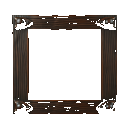
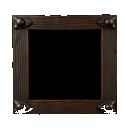
fix: replace stretched image panels with CSS wood-frame + parchment system
FantasyPanel now uses styled Views (dark wood frame border, parchment
background, metal corner studs, drop shadow) instead of ImageBackground
with resizeMode="stretch" which distorted ornate frames at variable sizes.

- FantasyPanel: wood frame + parchment + studs via Views, scales perfectly
- NarrativeText: dark ink color on parchment background
- Session narration: uses FantasyPanel pinned variant instead of raw image
- InventorySlot: label as dark chip inside frame, slot assets re-processed
  with corner floodfill to preserve dark wood detail
- All modals switched from modal to pinned variant for better safe area

diff --git a/src/components/ui/FantasyPanel.tsx b/src/components/ui/FantasyPanel.tsx
@@ -1,7 +1,8 @@
 // src/components/ui/FantasyPanel.tsx
+// Fantasy-themed panel: wood frame + parchment + corner studs.
+// Uses styled Views instead of ImageBackground to avoid stretch distortion.
 import React from 'react';
-import { ImageBackground, StyleSheet, View, ViewStyle } from 'react-native';
-import { UI_ASSETS } from '@/assets/ui';
+import { StyleSheet, View, ViewStyle } from 'react-native';
 
 export type PanelVariant = 'card' | 'pinned' | 'modal' | 'button' | 'strip';
 
@@ -11,54 +12,164 @@ interface FantasyPanelProps {
   style?: ViewStyle;
 }
 
-const VARIANT_ASSETS: Record<PanelVariant, any> = {
-  card: UI_ASSETS.panel.card,
-  pinned: UI_ASSETS.panel.pinned,
-  modal: UI_ASSETS.panel.modal,
-  button: UI_ASSETS.panel.button,
-  strip: UI_ASSETS.panel.strip,
+// ─── Corner Stud (metal bolt decoration) ──────────────────────────────────────
+
+function Stud({ size, position }: { size: number; position: ViewStyle }) {
+  return (
+    <View
+      style={[
+        {
+          position: 'absolute',
+          width: size,
+          height: size,
+          borderRadius: size / 2,
+          backgroundColor: '#3a3028',
+          borderWidth: 1,
+          borderTopColor: '#6a5a48',
+          borderLeftColor: '#5a4a38',
+          borderBottomColor: '#1a1208',
+          borderRightColor: '#2a2018',
+        },
+        position,
+      ]}
+    />
+  );
+}
+
+// ─── Variant configs ──────────────────────────────────────────────────────────
+
+interface VariantConfig {
+  frameWidth: number;
+  frameColor: string;
+  frameRadius: number;
+  parchmentColor: string;
+  innerRadius: number;
+  studSize: number;
+  contentPadding: ViewStyle;
+  showStuds: boolean;
+}
+
+const VARIANTS: Record<PanelVariant, VariantConfig> = {
+  card: {
+    frameWidth: 6,
+    frameColor: '#2e1e10',
+    frameRadius: 10,
+    parchmentColor: '#d4c4a0',
+    innerRadius: 5,
+    studSize: 10,
+    contentPadding: { paddingHorizontal: 14, paddingVertical: 12 },
+    showStuds: true,
+  },
+  pinned: {
+    frameWidth: 4,
+    frameColor: '#3a2a18',
+    frameRadius: 8,
+    parchmentColor: '#d8caa6',
+    innerRadius: 4,
+    studSize: 12,
+    contentPadding: { paddingHorizontal: 16, paddingVertical: 14 },
+    showStuds: true,
+  },
+  modal: {
+    frameWidth: 8,
+    frameColor: '#2e1e10',
+    frameRadius: 12,
+    parchmentColor: '#d4c4a0',
+    innerRadius: 5,
+    studSize: 12,
+    contentPadding: { paddingHorizontal: 18, paddingVertical: 16 },
+    showStuds: true,
+  },
+  button: {
+    frameWidth: 5,
+    frameColor: '#2e1e10',
+    frameRadius: 8,
+    parchmentColor: '#d4c4a0',
+    innerRadius: 4,
+    studSize: 8,
+    contentPadding: { paddingHorizontal: 16, paddingVertical: 10 },
+    showStuds: true,
+  },
+  strip: {
+    frameWidth: 3,
+    frameColor: '#3a2a18',
+    frameRadius: 6,
+    parchmentColor: '#ddd0b4',
+    innerRadius: 3,
+    studSize: 0,
+    contentPadding: { paddingHorizontal: 12, paddingVertical: 8 },
+    showStuds: false,
+  },
 };
 
-// Padding insets per variant — derived from measuring each asset's actual
-// parchment safe-area. Sized for typical phone widths (340–375 px panels).
-//
-// Measured safe areas (from 512-px source images):
-//   modal  → 59 % w × 45 % h  ⇒  ~20 % L/R, ~29 % T, ~27 % B
-//   card   → 86 % w × 63 % h  ⇒  ~7 % L/R, ~18 % T/B
-//   pinned → 82 % w × 70 % h  ⇒  ~9 % L/R, ~15 % T/B
-//   button → ~80 % w × 70 % h ⇒  ~10 % L/R, ~15 % T/B
-//   strip  → ~60 % w × 50 % h ⇒  large dead space
-const VARIANT_PADDING: Record<PanelVariant, ViewStyle> = {
-  card:   { paddingHorizontal: 32, paddingVertical: 36 },
-  pinned: { paddingHorizontal: 36, paddingVertical: 40 },
-  modal:  { paddingHorizontal: 64, paddingVertical: 72 },
-  button: { paddingHorizontal: 40, paddingVertical: 32 },
-  strip:  { paddingHorizontal: 32, paddingVertical: 24 },
-};
+// ─── Component ────────────────────────────────────────────────────────────────
 
 export function FantasyPanel({ variant, children, style }: FantasyPanelProps) {
+  const v = VARIANTS[variant];
+  const studOffset = -(v.studSize / 2 - v.frameWidth / 2);
+
   return (
-    <ImageBackground
-      source={VARIANT_ASSETS[variant]}
-      resizeMode="stretch"
-      style={[styles.container, style]}
-      imageStyle={styles.image}
+    <View
+      style={[
+        styles.outerFrame,
+        {
+          backgroundColor: v.frameColor,
+          borderRadius: v.frameRadius,
+          padding: v.frameWidth,
+        },
+        style,
+      ]}
     >
-      <View style={[styles.content, VARIANT_PADDING[variant]]}>
+      {/* Parchment inner surface */}
+      <View
+        style={[
+          styles.parchment,
+          {
+            backgroundColor: v.parchmentColor,
+            borderRadius: v.innerRadius,
+          },
+          v.contentPadding,
+        ]}
+      >
+        {/* Wood-grain edge highlight */}
+        <View
+          style={[
+            styles.innerEdge,
+            {
+              borderRadius: v.innerRadius,
+              borderColor: 'rgba(90,58,24,0.15)',
+            },
+          ]}
+        />
         {children}
       </View>
-    </ImageBackground>
+
+      {/* Corner studs */}
+      {v.showStuds && (
+        <>
+          <Stud size={v.studSize} position={{ top: studOffset, left: studOffset }} />
+          <Stud size={v.studSize} position={{ top: studOffset, right: studOffset }} />
+          <Stud size={v.studSize} position={{ bottom: studOffset, left: studOffset }} />
+          <Stud size={v.studSize} position={{ bottom: studOffset, right: studOffset }} />
+        </>
+      )}
+    </View>
   );
 }
 
 const styles = StyleSheet.create({
-  container: {
+  outerFrame: {
+    shadowColor: '#000',
+    shadowOffset: { width: 0, height: 3 },
+    shadowOpacity: 0.4,
+    shadowRadius: 6,
+    elevation: 6,
+  },
+  parchment: {
     overflow: 'hidden',
   },
-  image: {
-    // No borderRadius — let the ornate frame corners render naturally
-  },
-  content: {
-    // Base styles — variant padding applied dynamically
+  innerEdge: {
+    ...StyleSheet.absoluteFillObject,
+    borderWidth: 1,
   },
 });

diff --git a/src/components/ui/InventorySlot.tsx b/src/components/ui/InventorySlot.tsx
@@ -1,6 +1,6 @@
 // src/components/ui/InventorySlot.tsx
 import React from 'react';
-import { ImageBackground, Text, StyleSheet, ViewStyle } from 'react-native';
+import { Image, Text, View, StyleSheet, ViewStyle } from 'react-native';
 import { UI_ASSETS } from '@/assets/ui';
 import { fonts } from '@/theme/typography';
 
@@ -26,44 +26,67 @@ export function InventorySlot({
   const size = variant === 'square' ? 64 : 80;
 
   return (
-    <ImageBackground
-      source={source}
-      resizeMode="contain"
-      style={[styles.container, { width: size, height: size }, style]}
-      imageStyle={styles.image}
-    >
-      {children ? (
-        children
-      ) : (
-        <>
-          {icon && <Text style={styles.icon}>{icon}</Text>}
-          {label && (
-            <Text style={styles.label} numberOfLines={1}>
-              {label}
-            </Text>
-          )}
-          {empty && <Text style={styles.emptyText}>—</Text>}
-        </>
+    <View style={[styles.wrapper, { width: size, height: size }, style]}>
+      {/* Frame image */}
+      <Image
+        source={source}
+        style={StyleSheet.absoluteFillObject}
+        resizeMode="stretch"
+      />
+
+      {/* Icon centered */}
+      <View style={styles.iconArea}>
+        {children ? (
+          children
+        ) : (
+          <>
+            {icon && <Text style={styles.icon}>{icon}</Text>}
+            {empty && <Text style={styles.emptyText}>—</Text>}
+          </>
+        )}
+      </View>
+
+      {/* Label chip at bottom */}
+      {label && (
+        <View style={styles.labelChip}>
+          <Text style={styles.label} numberOfLines={1}>
+            {label}
+          </Text>
+        </View>
       )}
-    </ImageBackground>
+    </View>
   );
 }
 
 const styles = StyleSheet.create({
-  container: {
+  wrapper: {
     alignItems: 'center',
     justifyContent: 'center',
   },
-  image: {},
+  iconArea: {
+    alignItems: 'center',
+    justifyContent: 'center',
+    marginBottom: 6,
+  },
   icon: {
     fontSize: 20,
+    color: '#e8dcc8',
+  },
+  labelChip: {
+    position: 'absolute',
+    bottom: 6,
+    left: 6,
+    right: 6,
+    backgroundColor: 'rgba(0,0,0,0.6)',
+    borderRadius: 3,
+    paddingVertical: 1,
+    paddingHorizontal: 2,
   },
   label: {
     fontFamily: fonts.body,
     fontSize: 8,
     color: '#e8dcc8',
     textAlign: 'center',
-    marginTop: 2,
   },
   emptyText: {
     fontFamily: fonts.body,

diff --git a/src/components/game/NarrativeText.tsx b/src/components/game/NarrativeText.tsx
@@ -5,7 +5,7 @@ import React, { useEffect, useRef, useState, useCallback, useMemo } from 'react'
 import { Text, Pressable, StyleSheet, ScrollView, type TextStyle } from 'react-native';
 import Animated, { useSharedValue, useAnimatedStyle, withTiming } from 'react-native-reanimated';
 import * as Haptics from 'expo-haptics';
-import { colors } from '@/theme/colors';
+import { colors, PARCHMENT_TEXT } from '@/theme/colors';
 import { textStyles, spacing, fonts } from '@/theme/typography';
 import { useAccessibility } from '@/providers/AccessibilityProvider';
 
@@ -137,7 +137,7 @@ export function NarrativeText({ text, speed, onComplete }: NarrativeTextProps) {
 
   const baseTextStyle: TextStyle = useMemo(() => ({
     ...textStyles.narrative,
-    color: colors.text.primary,
+    color: PARCHMENT_TEXT.primary,
     fontFamily: getFont('narrative'),
     fontSize: scaleFontSize(16),
   }), [getFont, scaleFontSize]);
@@ -169,11 +169,11 @@ const styles = StyleSheet.create({
   },
   text: {
     ...textStyles.narrative,
-    color: colors.text.primary,
+    color: PARCHMENT_TEXT.primary,
   },
   cursor: {
     ...textStyles.narrative,
-    color: colors.gold.primary,
+    color: PARCHMENT_TEXT.accent,
     opacity: 0.6,
   },
 });

diff --git a/app/game/session.tsx b/app/game/session.tsx
@@ -299,7 +299,7 @@ export default function GameSessionScreen() {
           keyboardShouldPersistTaps="handled"
         >
           {/* Narrative Area */}
-          <FantasyPanel variant="pinned" style={styles.narrativeArea}>
+          <FantasyPanel variant="pinned" style={styles.narrativePanel}>
             {isLoading ? (
               <View style={styles.loading}>
                 <ActivityIndicator size="small" color={colors.gold.primary} />
@@ -524,8 +524,10 @@ const styles = StyleSheet.create({
     color: colors.text.tertiary,
     letterSpacing: 1,
   },
-  narrativeArea: {
+  narrativePanel: {
     minHeight: 200,
+    marginHorizontal: spacing.sm,
+    marginTop: spacing.sm,
   },
   loading: {
     flex: 1,
